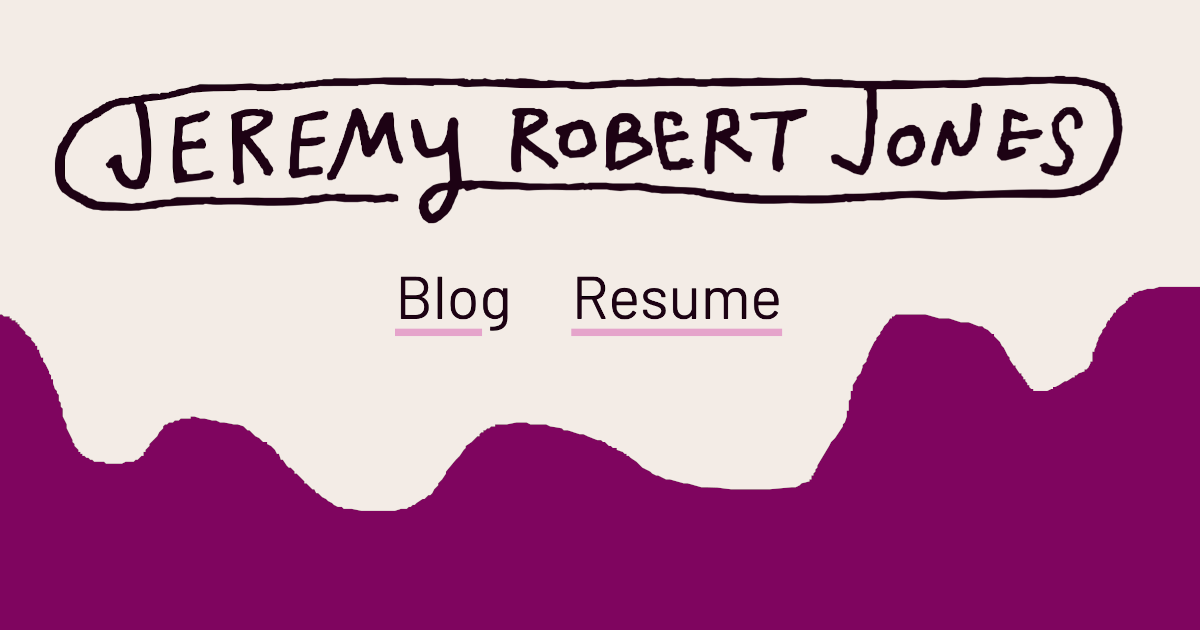
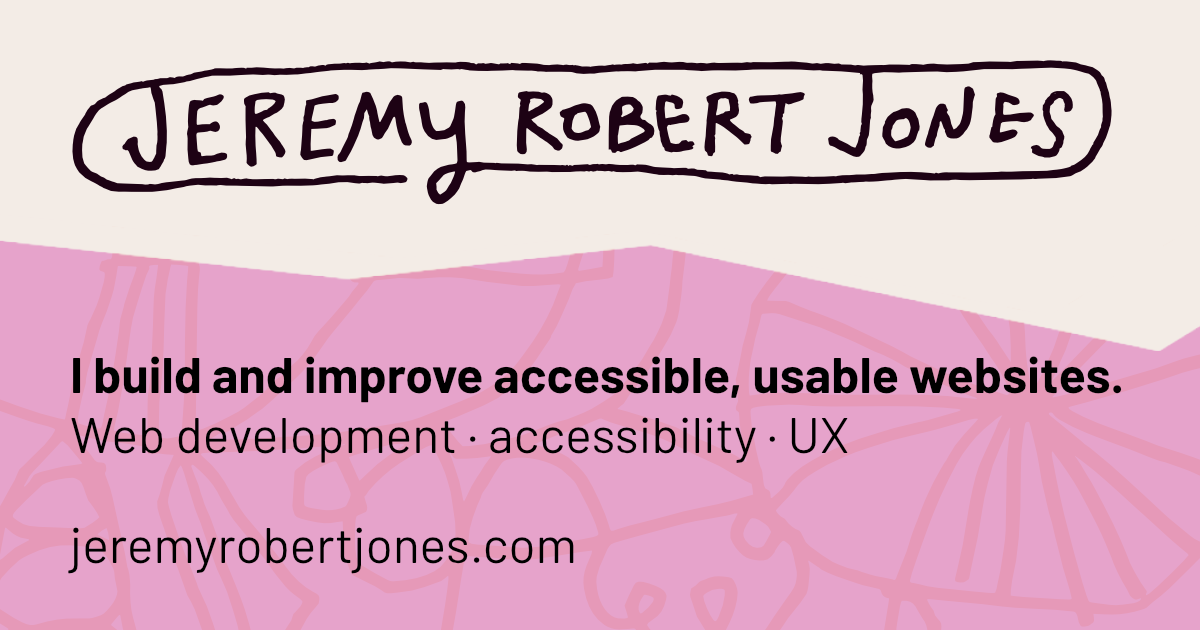
update resume and open graph image and whatnot

diff --git a/src/resume.md b/src/resume.md
@@ -3,40 +3,47 @@ title: 'Resume'
 layout: layouts/resume
 skills:
   - 'Web Development':
-      - 'HTML, CSS, JavaScript, PHP, SQL, Git, Responsive Design, SEO (JSON-LD Schema, Metadata, Open Graph)'
+      - 'HTML, CSS, JavaScript, PHP, Liquid, Git, Responsive Design, SEO'
   - 'Accessibility':
-      - '508, WCAG, Certified Trusted Tester'
-  - 'Tools':
-      - 'Figma, Adobe Creative Suite, Jira'
+      - 'Section 508, WCAG, ADA, Manual Accessibility Testing, Keyboard and Screen Reader Testing, PDF Remediation'
+  - 'Design':
+      - 'Penpot, Adobe Creative Suite, Information Architecture, Wireframing, Responsive Interface Design'
   - 'Content & Web Management':
-      - 'WordPress, Drupal, SharePoint, Salesforce Marketing Cloud, Writing & Editing, Quality Assurance'
+      - 'WordPress, Drupal, SharePoint, Shopify, Smart Sites CMS, Writing and Editing, Quality Assurance'
   - 'Analytics & Web Performance':
-      - 'Google Analytics, Looker Studio, Tag Manager, Search Console, Google PageSpeed Insights'
-  - 'Automation':
-      - 'Power Automate, UiPath, Python'
+      - 'Google Analytics 4, Google Tag Manager, Data Studio, Search Console, Search.gov, PageSpeed Insights'
+#   - 'Automation':
+#       - 'Power Automate, UiPath, Python'
 education:
   - 'Asheville-Buncombe Technical Community College':
       - 'A.A.S. in Digital Media; Certificate in Mobile Development'
-  - 'Section 508 Trusted Tester':
-      - 'Department of Homeland Security'
+certification:
+  - 'DHS Section 508 Trusted Tester':
+      - 'Department of Homeland Security, 2023'
 ---
 
 ## Profile
 
-I’m a web manager, developer, and UX designer with over 10 years of experience supporting government and research platforms. I specialize in creating intuitive, accessible websites, collaborating across teams, and translating needs into high-impact content and interfaces. I combine visual design skills with front-end development and content strategy to deliver clear, user-centered digital experiences.
+I’m a web manager, front-end developer, and certified Section 508 Trusted Tester with more than 10 years of experience supporting federal, education, ecommerce, and public-facing websites. My work combines accessible web development, CMS administration, content strategy, quality assurance, analytics, and user-centered design. I’m especially experienced in organizing complex information, improving publishing workflows, and creating clear, usable digital experiences.
 
 ## Experience
+
+### Web Accessibility, Development & QA Consultant, <span style="font-weight: normal;">Freelance</span>
+
+Sep 2025 – Present &nbsp;|&nbsp; Remote
+
+- Audited and improved public education websites for accessibility, usability, content accuracy, and ADA Title II readiness, including converting PDF content into accessible HTML.
+- Compared website information against official catalogs, spreadsheets, policies, and fee schedules; documented discrepancies and coordinated corrections with administrators and content owners.
+- Designed reusable CMS components and built and maintained responsive Shopify and WordPress websites.
+- Remediated accessibility issues, tested completed fixes, and implemented analytics reporting for traffic, searches, downloads, engagement, and key user paths.
 
 ### Web Manager, <span style="font-weight: normal;">U.S. Forest Service Research & Development</span>
 
 Nov 2015 – Sep 2025 &nbsp;|&nbsp; Remote
 
-- Managed and updated research station websites, serving as quality control and editor for all public-facing content.
-- Led full-scale redesign projects, including planning information architecture with clients, designing wireframes, and developing responsive websites and UI components using HTML, CSS, JavaScript, and PHP.
-- Developed custom WordPress themes and managed site plugins, updates, and backups.
-- Ensured Section 508 & WCAG accessibility compliance of web interfaces and content through regular audits and remediation.
-- Used Google Analytics to monitor content performance and user activity, inform strategy, and report results to leadership. Increased newsletter signups by 20% and reduced broken links by 50% through redesigns and audits.
-- Monitored site performance using Google PageSpeed Insights to identify issues and optimize asset loading.
-- Collaborated with content creators, editors, designers, and developers to ensure content accuracy, usability, consistency, and alignment with brand standards.
-- Created design specifications, accessibility checklists, and other documentation to support quality assurance and best practices for all contributors.
-- Tested content to improve search engine optimization, including creating meta tags, JSON-LD schema, structured data, and monitoring Google Search Console.
+- Managed federal research websites and intranets, serving as developer, editor, quality-assurance lead, SharePoint administrator, and primary resource for content contributors.
+- Led redesigns from stakeholder interviews and information architecture through responsive development, content migration, testing, training, and launch.
+- Developed WordPress themes, web interfaces, forms, and reusable components using HTML, CSS, JavaScript, PHP, USWDS, and structured content.
+- Audited and remediated websites, documents, and multimedia for Section 508 and WCAG accessibility; created contributor guidance, checklists, and publishing standards.
+- Used analytics, search data, accessibility testing, link audits, and PageSpeed Insights to guide improvements, increasing newsletter subscriptions by 20% and reducing page-not-found errors by 50%.
+- Collaborated with researchers, leadership, communications staff, designers, developers, and content owners to publish accurate, understandable, and accessible scientific information.

diff --git a/src/index.md b/src/index.md
@@ -3,4 +3,8 @@ title: 'Jeremy Robert Jones'
 layout: layouts/home
 ---
 
-**Hi, I’m Jeremy.** I build things on the web and share what I learn on my [blog](/blog). (Yeah, I need to write more...)
+**Hi, I’m Jeremy.** I build and improve accessible, usable websites. Lately, I’ve been helping schools and businesses audit their sites, fix accessibility issues, and make their content easier to understand and navigate.
+
+Yes, I am open for work! Please have a look at my [resume](/resume).
+
+I’ve also written one blog post ↓
